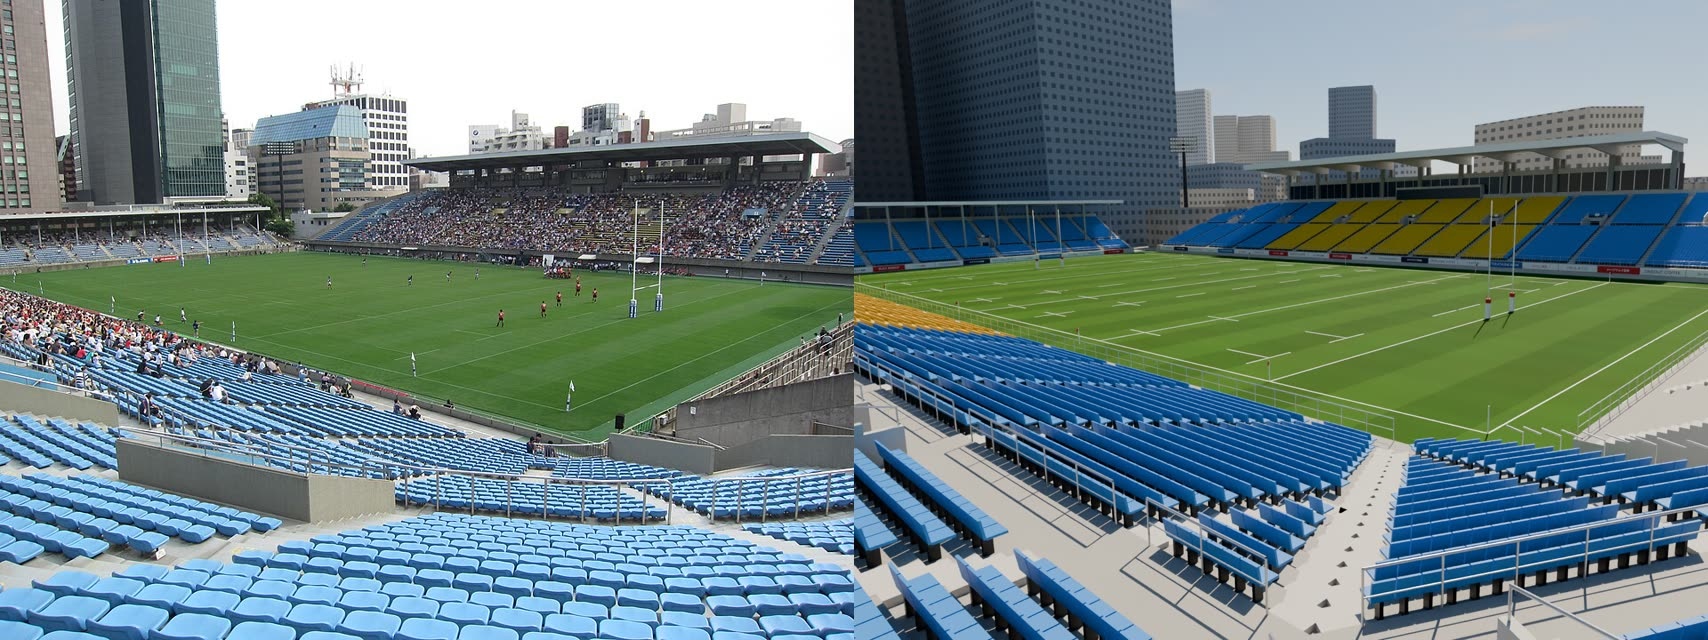
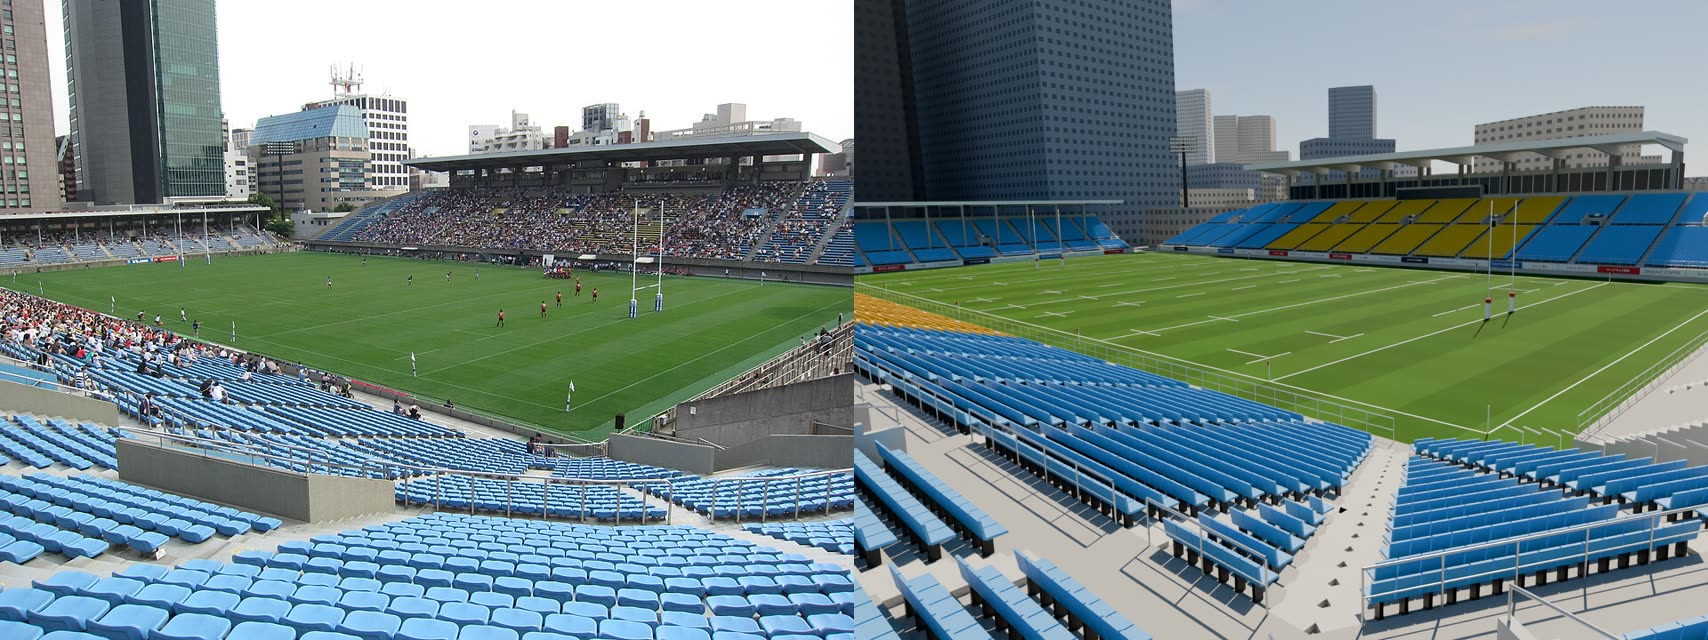
青い座席を写真の日向の色に近い明るい空色にした
比較 01 の奥の大きなビルは 2017〜2020 年に建った実在の建物(高さの推定の誤りではない)と remaining.md を直した。

diff --git a/scripts/cb/materials.py b/scripts/cb/materials.py
@@ -476,7 +476,7 @@ define("pad_red", color=srgb(196, 30, 36), rough=0.55)
 define("flag_red", color=srgb(214, 36, 40), rough=0.7)
 define("seat_red", color=srgb(200, 22, 16), rough=0.6, spec=0.3)
 # 秩父宮: 水色寄りの青と、からし色の黄(写真の日なたの青は sRGB で約 (119,175,219))
-define("seat_blue", color=srgb(40, 122, 196), rough=0.55, spec=0.3)
+define("seat_blue", color=srgb(70, 150, 212), rough=0.55, spec=0.3)
 define("seat_yellow", color=srgb(214, 178, 40), rough=0.55, spec=0.3)
 define("vom_blue", color=srgb(176, 198, 214), rough=0.7)
 define("vom_yellow", color=srgb(222, 204, 128), rough=0.7)

diff --git a/docs/remaining.md b/docs/remaining.md
@@ -9,19 +9,19 @@
 2. **スタンドの外壁と正面入場口がない**。メインの後ろ(西)は躯体の箱のまま。正面の門(施設名の入った門型の枠)、北・南の外側の階段も未作成。
 3. **南スタンドの断面と柱の前後の位置**(比較 04)。柱の並び(写真 05 で数えた 7.8 m おき 10 本)は直した。比較 04 を解いたカメラ(X = −86.8、高さ 6.6 m)は模型の段(7.4 m)より低く、
    左端に写真にない柱が 1 本写る。段の蹴上げ(後段 0.45 m)が高すぎるか、柱がもっと後ろにある可能性。写真の手前の通路からの計算では横通路の位置は模型と 2 m 以内で、決め手がない。
-4. **座席の青が暗い**(比較 02・03)。実物はもう少し明るい空色。
-5. **周りの建物の高さの 9 割は推定**(OSM に高さも階数もない 1,347 棟は床面積から決めた)。写真 01・02 の背景で、模型のほうが高い建物がある。
+4. **周りの建物の高さの 9 割は推定**(OSM に高さも階数もない 1,347 棟は床面積から決めた)。写真 01・02 の背景で、模型のほうが高い建物がある。
    周りは今(2026 年)の OSM なので、2012〜2013 年の写真にない建物も入っている。
-6. **南西の照明塔の位置**は北西に合わせた推定。写真で確かめていない。
-7. **比較 02 の手前(北東の角のブロック)**: カメラはポスト 10 点から解き直して奥は合った(平均 1.9 画素)が、解いた高さ 11.9 m は模型の段(7.7 m)より 4 m 高い。
+5. **南西の照明塔の位置**は北西に合わせた推定。写真で確かめていない。
+6. **比較 02 の手前(北東の角のブロック)**: カメラはポスト 10 点から解き直して奥は合った(平均 1.9 画素)が、解いた高さ 11.9 m は模型の段(7.7 m)より 4 m 高い。
    写真の手前の列は視線にほぼ直角(芝の中央を 45〜50 度回って向く)で、模型の角のブロック(60 度)とは出入口の壁の位置も違う。角の段の高さと向きは推定のまま。
-8. **比較 01 の背景**: 北の奥(神宮球場の後ろ)に模型では白い大きなビルが 3 棟そびえるが、写真には新宿の高層ビルが小さく見えるだけ。床面積から推定した高さが高すぎる。
-9. **屋根の柱と梁の本数・深さ**は写真の見た目。メインの屋根の上端(22.6 m)は ±2 m。
-10. **段数**: 東は写真で数えた(18+16 段)。西・北・南は奥行に合わせた推定。並べた座席は 21,670 席+北の立見で約 23,900 人(公式 24,871 人、4% 少ない)。
-11. **バックスタンドの両端の回り込み**は向き(60 度)と折れ目の位置が推定。実物は座席図のとおり何枚かのブロックが少しずつ違う向きで、模型は 1 枚。
+7. **比較 01 の背景は写真の時期の差**: 北の奥の白い大きなビル 3 棟(日本青年館・JSC ビル 72 m〔2017 年〕、THE COURT 神宮外苑 85.5 m〔2020 年〕、Japan Sport Olympic Square 63.7 m〔2019 年〕)は
+   OSM に高さのある実在の建物で、2013 年の写真 01 より後に建った。周りは今(2026 年)の姿なので、このまま。
+8. **屋根の柱と梁の本数・深さ**は写真の見た目。メインの屋根の上端(22.6 m)は ±2 m。
+9. **段数**: 東は写真で数えた(18+16 段)。西・北・南は奥行に合わせた推定。並べた座席は 21,670 席+北の立見で約 23,900 人(公式 24,871 人、4% 少ない)。
+10. **バックスタンドの両端の回り込み**は向き(60 度)と折れ目の位置が推定。実物は座席図のとおり何枚かのブロックが少しずつ違う向きで、模型は 1 枚。
     比較 02 のカメラ位置では、模型の段が写真より座席に近い(角の段が 0.5 m ほど高い)。
-12. **神宮球場**は大きな形だけ(斜めの客席とれんがの外壁)。照明塔、スコアボード、屋根の部分はない。
-13. 空中写真の高い物の倒れは補正していない(屋根の平面 ±3 m)。
+11. **神宮球場**は大きな形だけ(斜めの客席とれんがの外壁)。照明塔、スコアボード、屋根の部分はない。
+12. 空中写真の高い物の倒れは補正していない(屋根の平面 ±3 m)。
 
 ## まだ作っていないもの
 

diff --git a/PROGRESS.md b/PROGRESS.md
@@ -32,6 +32,8 @@
 | 00:11 | 南の屋根の柱を写真 05 で数えた並びにした(9.3 m おき 9 本 → Y = −36.9 から 7.8 m おき 10 本、中央に柱なし) | 良くなった。比較 05 で柱の間隔が写真と同じ、比較 04 の正面の柱が消えた。左端に 1 本残る(断面は決め手がなく保留) |
 | 00:14 | 比較 01 のカメラを南のポスト 6 点・北のポストの根元 2 点・角のフラッグから解き直した(平均 1.1 画素。(−86, −73, 11.5) 29 mm → (−89.9, −71.5, 13.6) 30 mm) | 良くなった。2 度のずれが消え、ポスト・芝・映像装置・メインの屋根が重なる。背景のビルが高すぎるのがはっきりした |
 | 00:17 | 比較 02 のカメラを北のポスト 6 点・南のポスト 4 点から解き直した(平均 1.9 画素。(84, −71, 10.65) 31.8 mm → (80.8, −65.7, 11.9) 27.5 mm、傾き −1.2 度) | 良くなった。メイン・屋根・南スタンド・ポスト・芝が重なる。これで比較 5 枚すべてのカメラを規定の寸法から解いた |
+| 00:18 | (調べただけ)比較 01 の奥の大きなビル 3 棟は OSM に高さのある実在の建物で、2017〜2020 年に建った。高さの推定の誤りではなく写真の時期の差 | 直さない。remaining.md を書き直した |
+| 00:20 | 青い座席の色を明るい空色に(srgb 40,122,196 → 70,150,212)。写真 02・Rugby2 の日向の席は (121,178,222)〜(160,199,220) | 良くなった。比較 02 の手前の席が写真に近い |
 
 自分で決めたこと:
 - 角のブロックの向きは 60 度、折れ目は |X| = 64.8(推定)。62.8 だと比較 02 の撮影位置で段が高すぎたので外へ 2 m ずらした。
@@ -41,6 +43,7 @@
 - 比較 04 のカメラは、X も解いた方(−86.8、平均 2 画素)を採った。X を −82.6 に固定しても 3 画素で合うが、それだと写真にない南の屋根の柱がカメラの前に来る。
 - 比較 03 の手前の破線は 5 m・15 m ラインとした(もう一方の仮定ではカメラがスタンドの中に入る)。東の照明塔の奥行 Y = −82 は前と同じ仮定。
 - 南スタンドの断面(前段の深さ、蹴上げ)は、写真 04 の手前の通路から計算しても模型と 2 m 以内で決め手がないので変えなかった。
+- 座席の色は近くの写真(02、Rugby2)に合わせた。遠くの写真 03 では観客で席が覆われて暗く見えるので、色合わせには使わなかった。
 - 看板は前の壁の面だけにし、白地を多めにした(写真 03・05)。社名はラグビーの言葉と外苑・青山の言葉から作った架空のもの。
 
 ## わかっている問題
